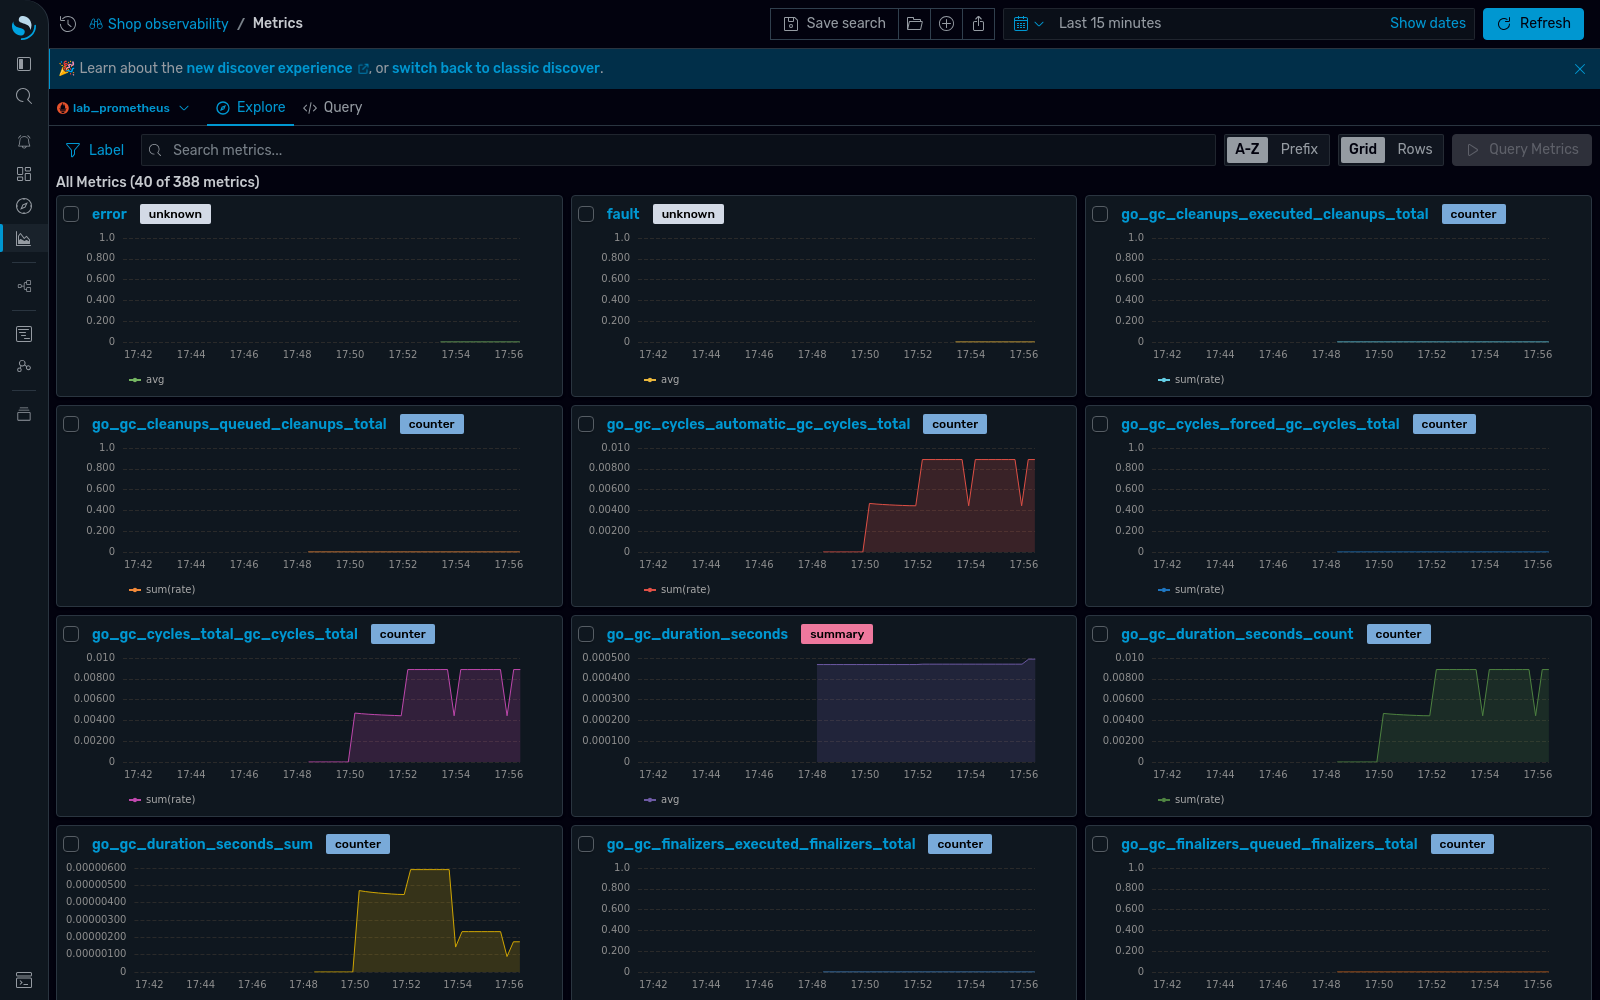
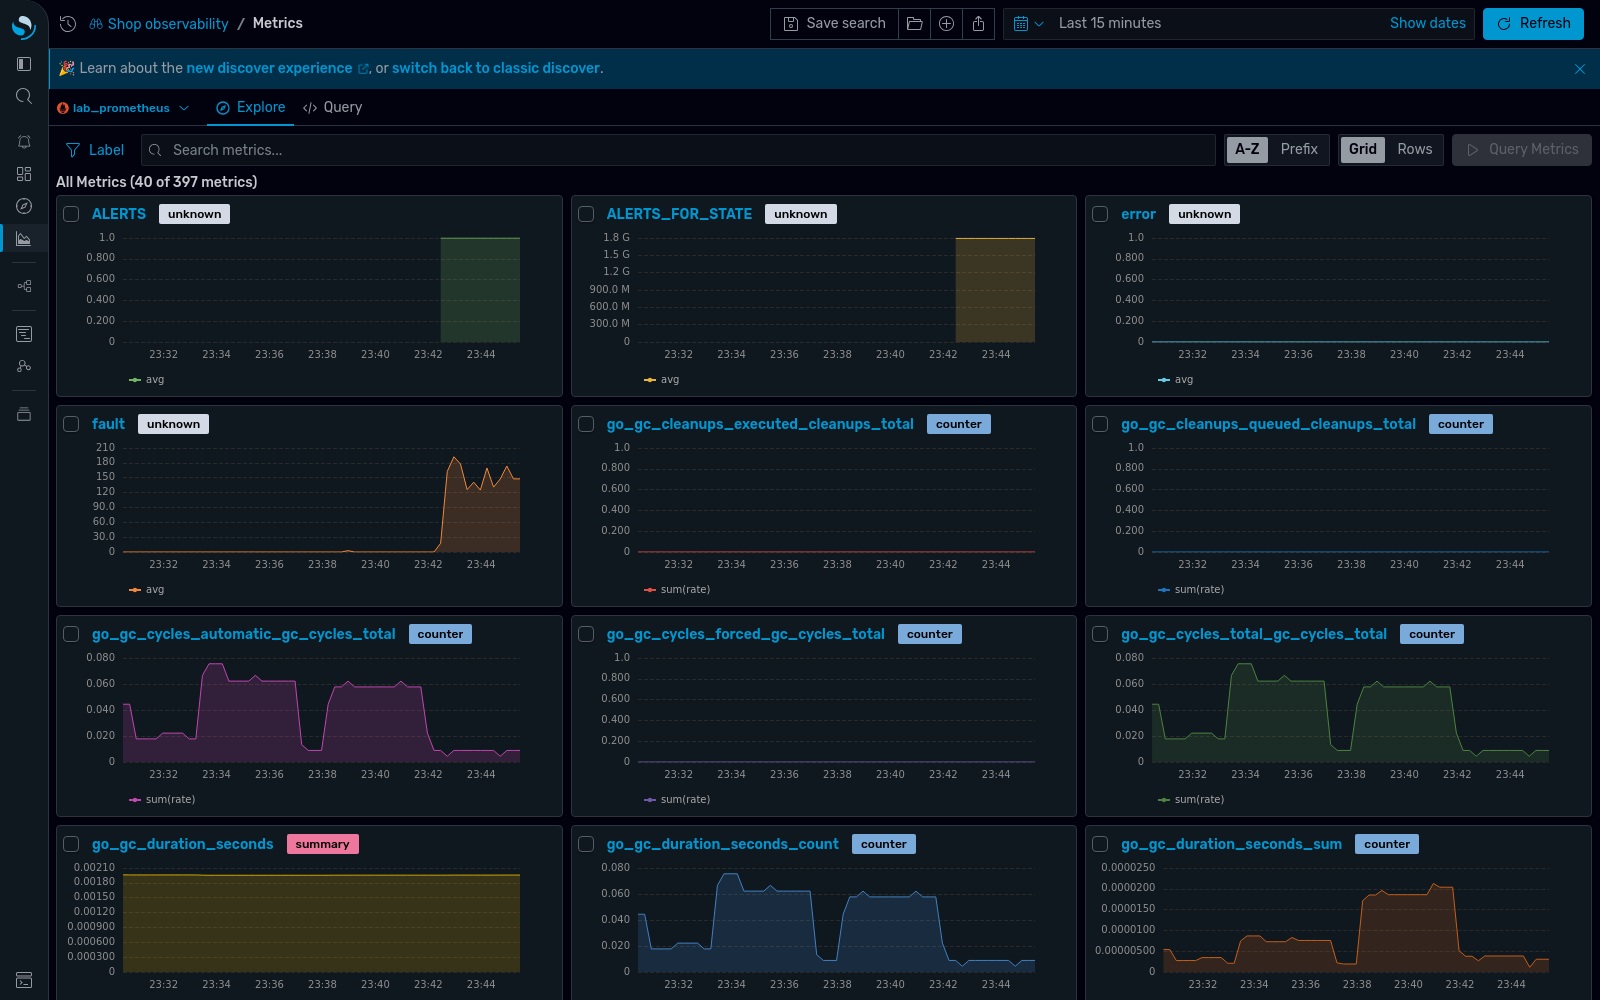
Run the lab at 50 requests per second and add benchmark

diff --git a/benchmark/run.py b/benchmark/run.py
@@ -1,0 +1,64 @@
+#!/usr/bin/env python3
+"""Benchmarks the lab at a fixed request rate. Usage: benchmark/run.py 50 100 (run from the repo root)."""
+import json, os, re, statistics as st, subprocess, sys, time, urllib.error, urllib.parse, urllib.request
+
+SETTLE, SAMPLE, QUERIES = 120, 300, 300
+Q = 'sum by (result) (rate(shop_orders_total[1m]))'
+PROM, OS = 'http://localhost:9090', 'http://localhost:9200'
+
+def get(url): return json.load(urllib.request.urlopen(url, timeout=30))
+def prom(q):
+    r = get(PROM + '/api/v1/query?' + urllib.parse.urlencode({'query': q}))['data']['result']
+    return float(r[0]['value'][1]) if r else None
+def index(pattern):
+    # Refresh first: an index with no recent searches doesn't publish new documents or segments.
+    urllib.request.urlopen(urllib.request.Request(f'{OS}/{pattern}/_refresh', b'', method='POST'), timeout=30).read()
+    r = get(f'{OS}/{pattern}/_stats/indexing,store')['_all']['primaries']
+    return r['indexing']['index_total'], r['store']['size_in_bytes']
+def mib(v):
+    m = re.match(r'([\d.]+)(\w+)', v); return float(m[1]) * {'B': 1 / 1048576, 'KiB': 1 / 1024, 'MiB': 1, 'GiB': 1024}[m[2]]
+def stats():
+    out = subprocess.check_output(['docker', 'stats', '--no-stream', '--format', '{{.Name}}|{{.CPUPerc}}|{{.MemUsage}}'], text=True)
+    return {n: (float(c[:-1]), mib(m.split(' / ')[0])) for n, c, m in (l.split('|') for l in out.splitlines())}
+def timed(fn):
+    t = time.perf_counter(); ok = True
+    try: fn()
+    except Exception: ok = False
+    return (time.perf_counter() - t) * 1000, ok
+def direct(s, e):
+    urllib.request.urlopen(PROM + '/api/v1/query_range?' + urllib.parse.urlencode(dict(query=Q, start=s, end=e, step=15)), timeout=30).read()
+def proxied(s, e):
+    b = json.dumps({'query': Q, 'language': 'promql', 'options': {'queryType': 'range', 'start': str(s), 'end': str(e), 'step': '15'}}).encode()
+    urllib.request.urlopen(urllib.request.Request(OS + '/_plugins/_directquery/_query/lab_prometheus', b, {'Content-Type': 'application/json'}), timeout=30).read()
+def latency(fn):
+    e = int(time.time()); xs = []; failed = 0
+    for _ in range(QUERIES):
+        ms, ok = timed(lambda: fn(e - 900, e)); xs.append(ms); failed += not ok; time.sleep(.05)
+    xs.sort()
+    return dict(p50=round(st.median(xs), 1), p95=round(xs[int(.95 * len(xs))], 1), p99=round(xs[int(.99 * len(xs))], 1), max=round(xs[-1], 1), over_1s=sum(x > 1000 for x in xs), failed=failed)
+def logcount(name, since, pattern):
+    out = subprocess.run(['docker', 'logs', '--since', since, name], capture_output=True, text=True)
+    return len(re.findall(pattern, out.stdout + out.stderr))
+
+results = {}
+for rps in map(int, sys.argv[1:]):
+    subprocess.run(['docker', 'compose', 'up', '-d', 'loadgen'], env={**os.environ, 'RPS': str(rps)}, capture_output=True, check=True)
+    print(f'{rps} req/s: settling', flush=True); time.sleep(SETTLE)
+    t0 = time.time(); start = int(t0); spans0, logs0 = index('otel-v1-apm-span-*'), index('logs-otel-v1-*'); samples = []
+    while time.time() - t0 < SAMPLE:
+        samples.append(stats()); time.sleep(10)
+    el = time.time() - t0; spans1, logs1 = index('otel-v1-apm-span-*'), index('logs-otel-v1-*')
+    w = f'{int(el)}s'
+    r = dict(requested_rps=rps, seconds=round(el),
+        achieved_rps=round(prom(f'sum(rate(shop_orders_total[{w}]))'), 1),
+        checkout_p95_ms=round(1000 * prom(f'histogram_quantile(0.95, sum by (le) (rate(http_server_request_duration_seconds_bucket{{service_name="checkout"}}[{w}])))'), 1),
+        spans_per_s=round((spans1[0] - spans0[0]) / el, 1), logs_per_s=round((logs1[0] - logs0[0]) / el, 1),
+        store_mb_per_min=round(((spans1[1] - spans0[1]) + (logs1[1] - logs0[1])) / 1048576 / el * 60, 1),
+        prom_series=prom('prometheus_tsdb_head_series'),
+        collector_failures=logcount('otel-collector', w, r'Exporting failed|dropped'), dp_errors=logcount('data-prepper', w, r' ERROR '), os_timeouts=logcount('opensearch', w, 'SocketTimeoutException'))
+    r['containers'] = {n: dict(cpu_pct=round(st.mean(s[n][0] for s in samples), 1), mem_mib=round(st.mean(s[n][1] for s in samples))) for n in samples[0] if n in ('opensearch', 'dashboards', 'prometheus', 'data-prepper', 'otel-collector', 'alertmanager', 'checkout', 'payments', 'loadgen')}
+    print(json.dumps(r), flush=True)
+    r['query_direct_ms'] = latency(direct); r['query_via_opensearch_ms'] = latency(proxied)
+    r['os_timeouts_during_queries'] = logcount('opensearch', '120s', 'SocketTimeoutException')
+    results[rps] = r; print(json.dumps(r, indent=1), flush=True)
+    json.dump(results, open('benchmark/results.json', 'w'), indent=1)

diff --git a/blog-submission/_posts/2026-11-01-testing-opensearch-prometheus-integration.md b/blog-submission/_posts/2026-11-01-testing-opensearch-prometheus-integration.md
@@ -9,20 +9,20 @@ categories:
 has_science_table: true
 meta_keywords: OpenSearch Prometheus integration, PromQL in OpenSearch Dashboards, OpenSearch observability, Discover metrics, unified alerts, Alertmanager, OpenTelemetry, Data Prepper, APM, trace to logs correlation
 meta_description: A hands-on test of the OpenSearch Prometheus integration. Follow an injected fault from a PromQL query to a trace and its logs, see how queries and access control work, and learn what to plan for during setup.
-excerpt: OpenSearch Dashboards can query Prometheus with PromQL next to logs and traces stored in OpenSearch. I broke a service in a small lab and tried to find the cause from one UI. Here is how the investigation went, how queries and access control work, and what to plan for during setup.
+excerpt: OpenSearch Dashboards can query Prometheus with PromQL next to logs and traces stored in OpenSearch. I cloned my setup into a small lab, broke a service, and tried to find the cause from one UI. Here is how the investigation went, how queries and access control work, and how the lab behaved at 50 and 100 requests per second.
 ---
 
-On a previous project, I worked as a cloud architect on a validation platform for a large healthcare enterprise, and we migrated several separate dashboards for metrics, logs, traces, and validation status into one view using Prometheus and Grafana. What stayed with me was how much of an incident goes to moving between tools: you spot a latency spike in one place, then go looking for the matching trace and error message in another.
+I worked as a cloud architect on a validation platform for a large healthcare enterprise, where we migrated several separate dashboards for metrics, logs, traces, and validation status into one view, and that work is now in production. What stayed with me was how much of an incident goes to moving between tools: you spot a latency spike in one place, then go looking for the matching trace and error message in another.
 
-OpenSearch Dashboards can now query Prometheus directly with PromQL, next to logs and traces stored in OpenSearch, and you don't have to move your metrics to try it. I wanted to see how far that gets you during an investigation. That earlier project didn't use OpenSearch, and everything in this post comes from a lab, not production.
+OpenSearch Dashboards can query Prometheus directly with PromQL, next to logs and traces stored in OpenSearch, and you don't have to move your metrics to use it. I can't share that production environment, so I cloned the approach into a small lab that you can run yourself. Every number and screenshot in this post comes from that lab, not from production.
 
-The [OpenSearch 3.7 release post](https://opensearch.org/blog/explore-opensearch-3-7/) and a [walkthrough from BigDataBoutique](https://bigdataboutique.com/blog/opensearch-native-prometheus-integration-walkthrough) already cover what the feature is and how to turn it on. In this post, I'll focus on using it: I'll break a service on purpose and follow the fault from a PromQL query to a log line, trace how the query reaches Prometheus, test who can run it when the Security plugin is enabled, and share what I'd plan for during setup.
+The [OpenSearch 3.7 release post](https://opensearch.org/blog/explore-opensearch-3-7/) covers what the feature is. In this post, I'll focus on using it: I'll break a service on purpose and follow the fault from a PromQL query to a log line, trace how the query reaches Prometheus, test who can run it when the Security plugin is enabled, and benchmark the lab at 50 and 100 requests per second.
 
 All results come from OpenSearch 3.9.0, OpenSearch Dashboards 3.9.0, Data Prepper 2.16.0, Prometheus 3.15.1, and the OpenTelemetry Collector 0.164.0, running in Docker on a laptop. The full lab, including every configuration file, is available in the [`opensearch-prometheus-lab` repository](https://github.com/mohiadeen-ameer/opensearch-prometheus-lab).
 
 ## The lab: One Collector, two storage engines
 
-The application is a two-service shop written in Go and instrumented with the OpenTelemetry SDK. The `checkout` service calls `payments`, which calls a simulated card provider. A load generator sends five requests per second, and the `payments` service exposes a `/chaos` endpoint that adds latency and errors on demand.
+The application is a two-service shop written in Go and instrumented with the OpenTelemetry SDK. The `checkout` service calls `payments`, which calls a simulated card provider. A load generator sends 50 requests per second by default, and the `payments` service exposes a `/chaos` endpoint that adds latency and errors on demand.
 
 The following diagram shows how each signal travels. The OpenTelemetry Collector sends traces and logs to Data Prepper, which writes them to OpenSearch. Metrics go directly to Prometheus through its native OpenTelemetry Protocol (OTLP) receiver. Data Prepper also derives rate, error, and duration (RED) metrics from spans and remote-writes them to Prometheus for the application performance monitoring (APM) pages.
 
@@ -74,7 +74,7 @@ This is the easy case: one injected fault, and both services slow down at once. 
 
 ### Step 1: Spot the problem in metrics
 
-In **Discover > Metrics**, the **Explore** mode found every metric name in Prometheus (388 in this lab) once the connection existed and drew a small chart for each one. The following image shows the Explore mode.
+In **Discover > Metrics**, the **Explore** mode found every metric name in Prometheus (397 in this lab) once the connection existed and drew a small chart for each one. The following image shows the Explore mode.
 
 ![Explore mode in Discover Metrics, showing a grid of preview charts, one for each Prometheus metric.](/assets/media/blog-images/2026-11-01-testing-opensearch-prometheus-integration/explore-metrics.png)
 
@@ -103,9 +103,9 @@ The **Routing** tab shows a read-only view of the `Alertmanager` routing tree, w
 
 ### Step 3: Find the slow span
 
-In **Discover > Traces**, I filtered for failed requests and opened one. The following waterfall shows that every span in the request takes about 734 ms and that the deepest span, `card-provider.authorize`, is where the time goes.
+In **Discover > Traces**, I filtered for failed requests and opened one. The following waterfall shows that every span in the request takes about 733 ms and that the deepest span, `card-provider.authorize`, is where the time goes.
 
-![Trace waterfall for a failed checkout request, with four nested spans of about 734 ms each and card-provider.authorize as the deepest span.](/assets/media/blog-images/2026-11-01-testing-opensearch-prometheus-integration/trace-waterfall.png)
+![Trace waterfall for a failed checkout request, with four nested spans of about 733 ms each and card-provider.authorize as the deepest span.](/assets/media/blog-images/2026-11-01-testing-opensearch-prometheus-integration/trace-waterfall.png)
 
 ### Step 4: Read the related logs
 
@@ -147,15 +147,33 @@ Datasets created using the API start with an empty field list. The fix is to loa
 
 ## Why not just use Grafana?
 
-Grafana can query both Prometheus and OpenSearch, and it's what I used on that earlier project. If it works for you, I don't see a reason to switch because of this feature. The case for OpenSearch Dashboards is narrower: if you already run it for logs and traces, you can add metrics without running another UI, and trace-to-log navigation is already there. I didn't compare the two side by side, so this is my opinion rather than a benchmark.
+Grafana can query both Prometheus and OpenSearch, and I've used it with Prometheus myself. If it works for you, I don't see a reason to switch because of this feature. The case for OpenSearch Dashboards is narrower: if you already run it for logs and traces, you can add metrics without running another UI, and trace-to-log navigation is already there. I didn't compare the two side by side, so this is my opinion rather than a benchmark.
 
-## Lab resource usage
+## Benchmarking the lab at 50 and 100 requests per second
 
-These numbers describe the whole lab rather than the cost of the integration. At 5 requests per second, OpenSearch with a 1 GB heap used 1.9 GB of memory, Data Prepper 470 MB, OpenSearch Dashboards 390 MB, and Prometheus 75 MB. OpenSearch held 18,500 spans (7 MB) and 7,300 log records (2.4 MB) after about 15 minutes.
+I ran each load level for 5 minutes with no injected fault, then sent 300 PromQL range queries at about 20 per second, once directly to Prometheus and once through OpenSearch. These numbers describe the whole lab on a laptop, using one 5-minute run per level, so use them as a reference rather than as capacity guidance.
+
+| Measurement | 50 requests/s | 100 requests/s |
+| :--- | ---: | ---: |
+| Measured request rate | 54.2/s | 100.0/s |
+| `checkout` p95 latency | 49.6 ms | 49.4 ms |
+| Spans indexed | 231/s | 402/s |
+| Log records indexed | 57/s | 103/s |
+| Collector export failures and Data Prepper errors | 0 | 0 |
+| PromQL p50, direct to Prometheus | 3.0 ms | 3.9 ms |
+| PromQL p50, through OpenSearch | 6.8 ms | 7.9 ms |
+| PromQL p99, direct to Prometheus | 3.7 ms | 5.3 ms |
+| PromQL p99, through OpenSearch | 10,013 ms | 14.0 ms |
+| OpenSearch memory (1 GB heap) | 2,166 MiB | 2,192 MiB |
+| Data Prepper memory | 910 MiB | 989 MiB |
+| OpenTelemetry Collector memory | 174 MiB | 188 MiB |
+| Prometheus memory | 162 MiB | 178 MiB |
+
+Going through OpenSearch added about 4 ms at the median. The p99 at 50 requests per second needs explaining: 21 of the 300 queries through OpenSearch took more than a second, most of them about 10 seconds, and the OpenSearch log showed `SocketTimeoutException` for the request to Prometheus. Direct queries showed no such delays, and neither did the 100 requests per second run, so load alone doesn't explain it. I saw the same bursts in earlier test runs and haven't found the cause, so if you depend on dashboards through this path, measure it in your own environment.
 
 ## What I didn't test
 
-This was a small test, so treat these results as a starting point. The lab runs a single OpenSearch node, one Prometheus server, and only 5 requests per second, with one injected fault. I didn't test authentication to Prometheus, high-availability or federated Prometheus setups, a ruler-enabled backend, PromQL dashboards, or the service-level objective catalog. I also didn't measure query latency under load well enough to publish a number.
+This was a small test, so treat these results as a starting point. The lab runs a single OpenSearch node and one Prometheus server, with one injected fault and at most 100 requests per second. I didn't test authentication to Prometheus, high-availability or federated Prometheus setups, a ruler-enabled backend, PromQL dashboards, or the service-level objective catalog.
 
 ## One place to investigate, two places to store
 

diff --git a/README.md b/README.md
@@ -35,6 +35,12 @@ curl "localhost:8081/chaos?latency_ms=700&error_rate=0.25"   # slow, failing pay
 curl "localhost:8081/chaos"                                   # back to normal
 ```
 
+Change the load (default 50 requests per second):
+
+```bash
+RPS=100 docker compose up -d loadgen
+```
+
 Stop and clean up:
 
 ```bash
@@ -54,7 +60,7 @@ docker compose down -v     # delete data too
 | `data-prepper` | (internal) | writes spans and logs to OpenSearch; builds the service map and RED metrics |
 | `checkout` | 8080 | demo service: `GET /checkout` calls payments |
 | `payments` | 8081 | demo service: `POST /pay`; `GET /chaos` injects faults |
-| `loadgen` | (none) | 5 requests per second to checkout |
+| `loadgen` | (none) | 50 requests per second to checkout (set `RPS` to change it) |
 
 ## Things to try in Dashboards
 
@@ -87,6 +93,7 @@ curl -s -X POST localhost:9200/_plugins/_directquery/_query/lab_prometheus -H 'C
 | `config/alertmanager.yml` | a small routing tree so the Routing tab has something to show |
 | `config/opensearch_dashboards.yml` | turns on workspaces, the explore plugin (logs/traces/metrics) and Alertmanager view |
 | `setup.sh` | Prometheus data source, workspace, datasets (with field refresh), trace-to-logs and APM correlations |
+| `benchmark/` | `run.py` measures the lab at given request rates (`benchmark/run.py 50 100`); `results.json` is the latest run |
 | `app/` | the Go demo: `main.go` (3 roles), `telemetry.go` (OTel SDK setup) |
 
 ## Versions tested

diff --git a/blog-submission/SUBMIT.md b/blog-submission/SUBMIT.md
@@ -24,7 +24,7 @@ so they can be copied straight into a fork of it.
 
 Go to https://github.com/opensearch-project/project-website/issues/new/choose → **New blog post**:
 
-- **Describe the blog post:** A hands-on test of the Prometheus integration in OpenSearch 3.9, using a reproducible Docker lab. The post follows an injected fault from a PromQL query to alerts, a trace, and related logs, shows how PromQL reaches Prometheus, tests access control with the Security plugin enabled, and covers what to plan for during setup.
+- **Describe the blog post:** A hands-on test of the Prometheus integration in OpenSearch 3.9, using a reproducible Docker lab. The post follows an injected fault from a PromQL query to alerts, a trace, and related logs, shows how PromQL reaches Prometheus, tests access control with the Security plugin enabled, and benchmarks the lab at 50 and 100 requests per second.
 - **Expected title:** One place to investigate logs, metrics, and traces: Testing the OpenSearch Prometheus integration
 - **Author's name:** Mohiadeen Ameer
 - **Author's email:** github.com/mohiadeen-ameer
